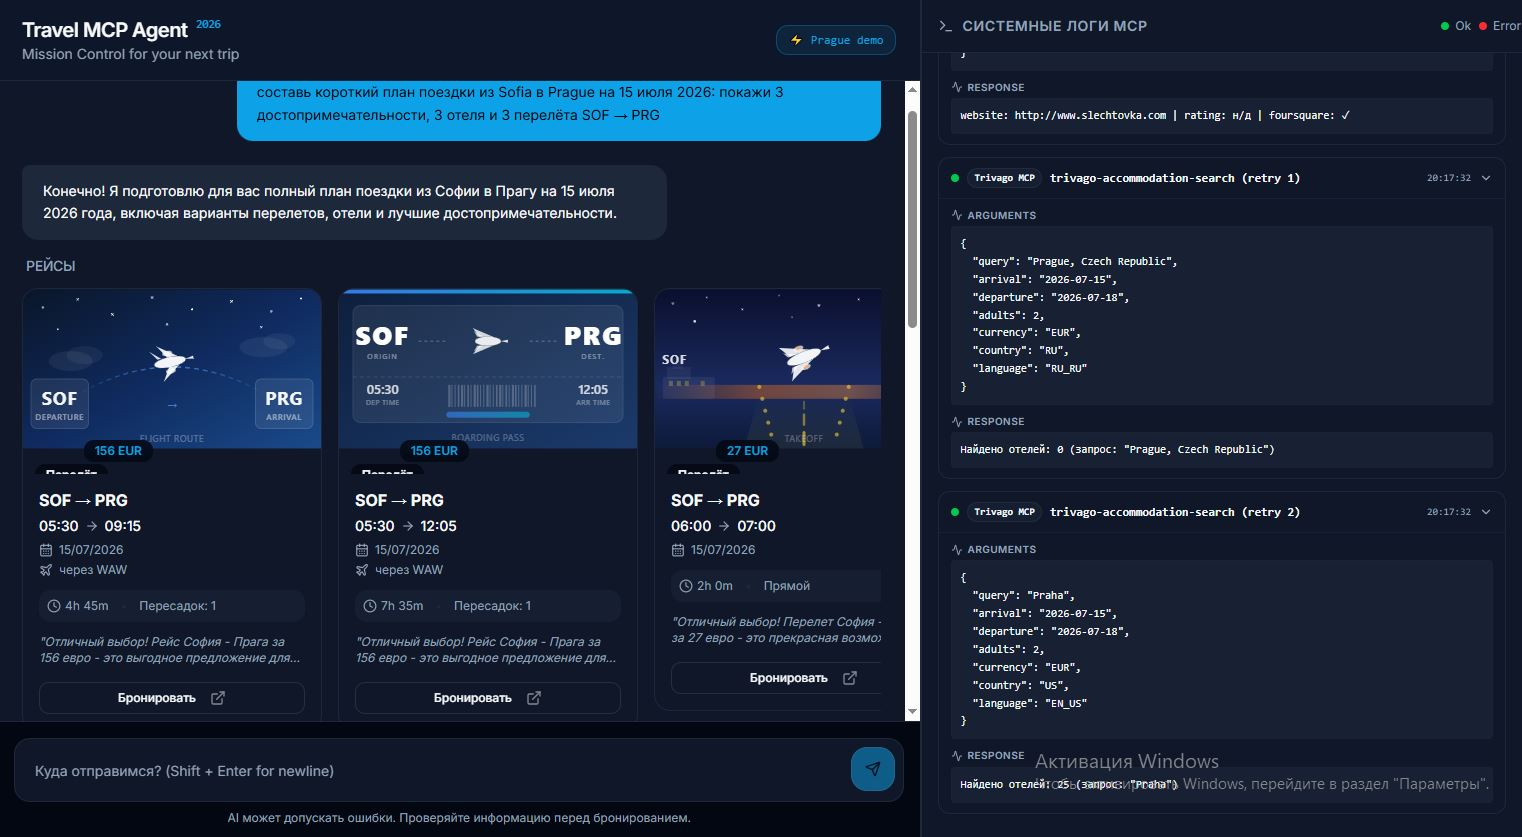
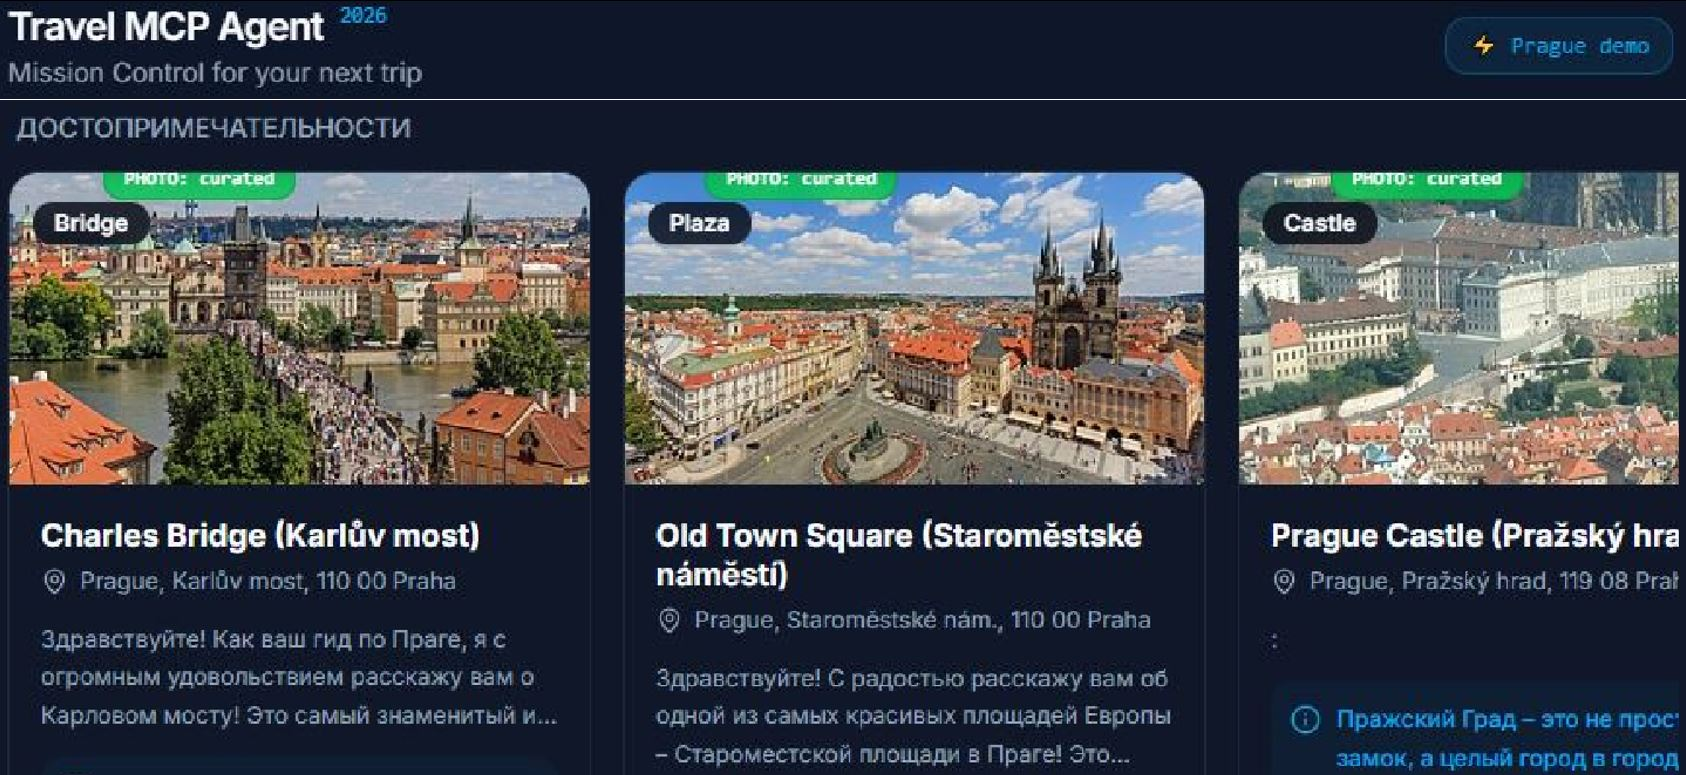
Polish project cards and Travel MCP visual

diff --git a/src/data/projects.ts b/src/data/projects.ts
@@ -507,11 +507,12 @@ export const projects: PortfolioProject[] = [
     href: '/projects/travel-mcp-agent/',
     image: {
       src: '/projects/travel-mcp-agent.jpg',
-      alt: 'Travel MCP Agent показывает варианты перелётов Sofia — Prague и журнал вызовов Kiwi MCP',
-      width: 1522,
-      height: 837,
-      cardCaption: 'Multi-MCP demo: перелёты и системные логи',
-      caption: 'Сохранённый экран общего сценария поездки: карточки перелётов SOF → PRG и журнал вызовов MCP-инструментов.',
+      alt: 'Travel MCP Agent показывает карточки достопримечательностей Праги',
+      width: 1686,
+      height: 775,
+      cardCaption: 'Multi-MCP demo: достопримечательности Праги',
+      cardOrigin: '0% 0%',
+      caption: 'Сохранённый экран Travel MCP Agent с карточками достопримечательностей Праги.',
     },
     seoTitle: 'Travel MCP Agent 2026 — кейс агента с Kiwi, Trivago и Foursquare',
     seoDescription: 'Демонстрационный Travel MCP Agent: перелёты, отели, достопримечательности, маршрутизация запросов, retry и multi-MCP сценарий.',

diff --git a/src/styles/visual-upgrade.css b/src/styles/visual-upgrade.css
@@ -154,23 +154,17 @@
 .media-preview.has-image { padding: 0; background: var(--level-3); }
 .media-preview.has-image::before,.media-preview.has-image::after { display: none; }
 .media-preview.media-project.has-image {
-  padding: var(--preview-frame-pad);
-  background: var(--preview-frame);
+  padding: 0;
+  background: transparent;
   border-bottom-color: var(--preview-frame-border);
-  box-shadow: var(--preview-frame-shadow);
-}
-.media-preview.media-project.has-image::after {
-  display: block;
-  inset: 0;
-  z-index: 0;
-  background: var(--preview-frame-tint);
+  box-shadow: none;
 }
 .media-preview img { width: 100%; height: 100%; object-fit: contain; }
-.media-preview.has-image img { object-fit: cover; object-position: top center; }
+.media-preview.has-image img { object-fit: cover; object-position: var(--card-image-origin, 50% 0%); }
 .media-preview.media-project.has-image img {
   position: relative;
   z-index: 1;
-  border-radius: var(--preview-screenshot-radius);
+  border-radius: 0;
   filter: none;
   transform: scale(var(--card-image-scale, 1));
   transform-origin: var(--card-image-origin, 50% 0%);
